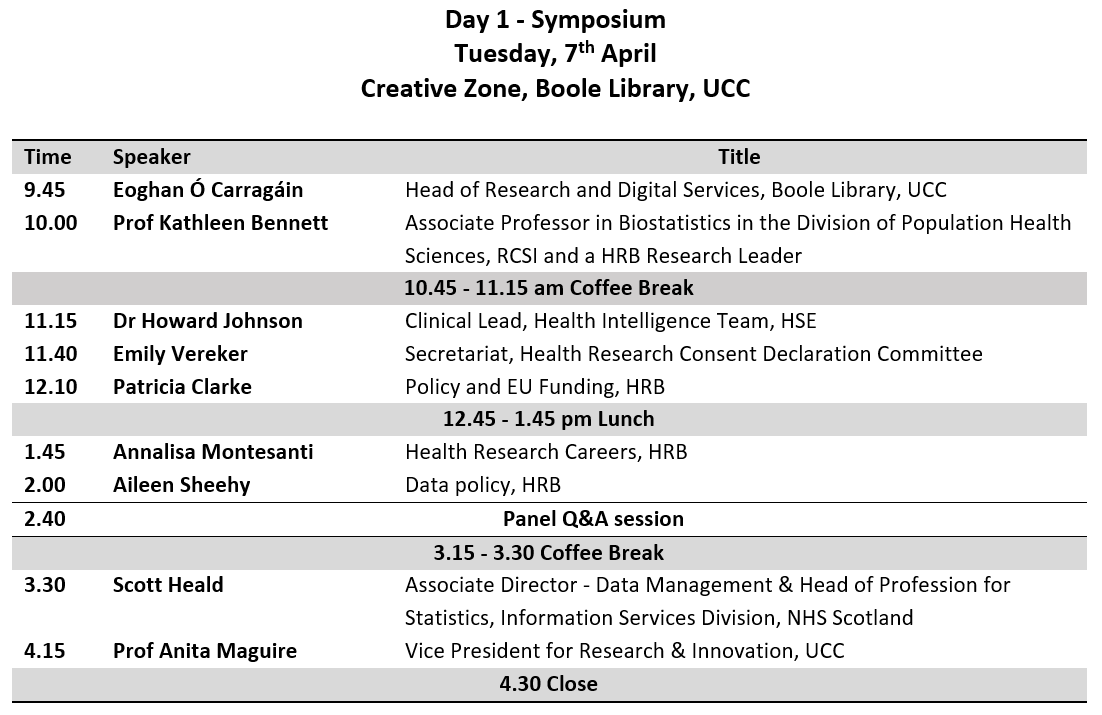
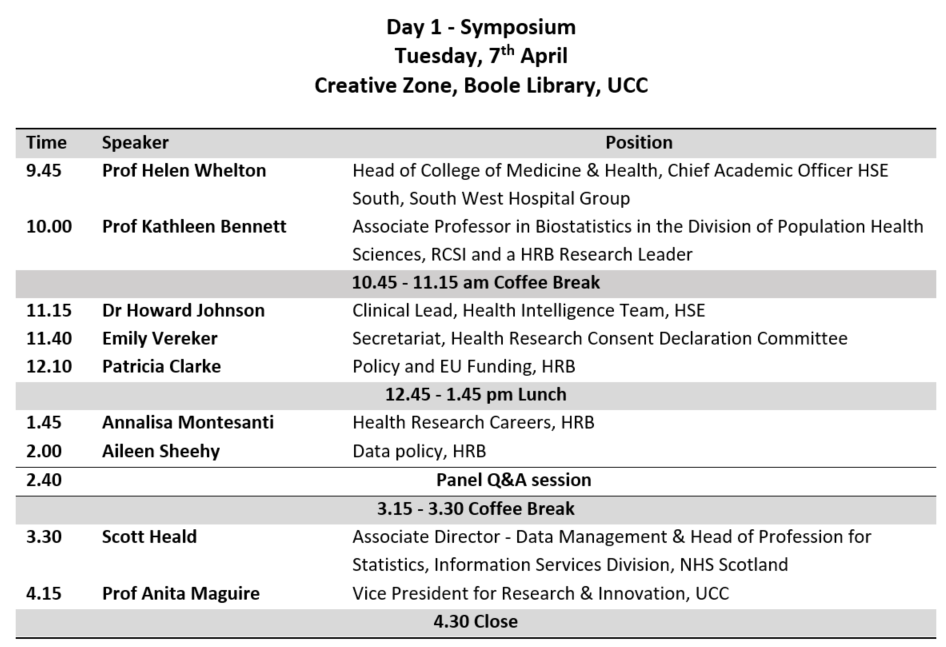
event update

diff --git a/post/hrbdataevent/index.html b/post/hrbdataevent/index.html
@@ -125,8 +125,6 @@
 
 <p>To register for the event, please follow this <a href="https://conference.ucc.ie/data-management-in-health-research-youre-funded-but-are-you-fair/register/Site/Register">link</a>.</p>
 
-<p>Full programme to be published soon.</p>
-
 <p><strong>Speakers/Facilitators:</strong></p>
 
 <ul>

diff --git a/post/index.html b/post/index.html
@@ -125,8 +125,6 @@
 
 <p>To register for the event, please follow this <a href="https://conference.ucc.ie/data-management-in-health-research-youre-funded-but-are-you-fair/register/Site/Register">link</a>.</p>
 
-<p>Full programme to be published soon.</p>
-
 <p><strong>Speakers/Facilitators:</strong></p>
 
 <ul>

diff --git a/tags/academic/index.html b/tags/academic/index.html
@@ -125,8 +125,6 @@
 
 <p>To register for the event, please follow this <a href="https://conference.ucc.ie/data-management-in-health-research-youre-funded-but-are-you-fair/register/Site/Register">link</a>.</p>
 
-<p>Full programme to be published soon.</p>
-
 <p><strong>Speakers/Facilitators:</strong></p>
 
 <ul>
